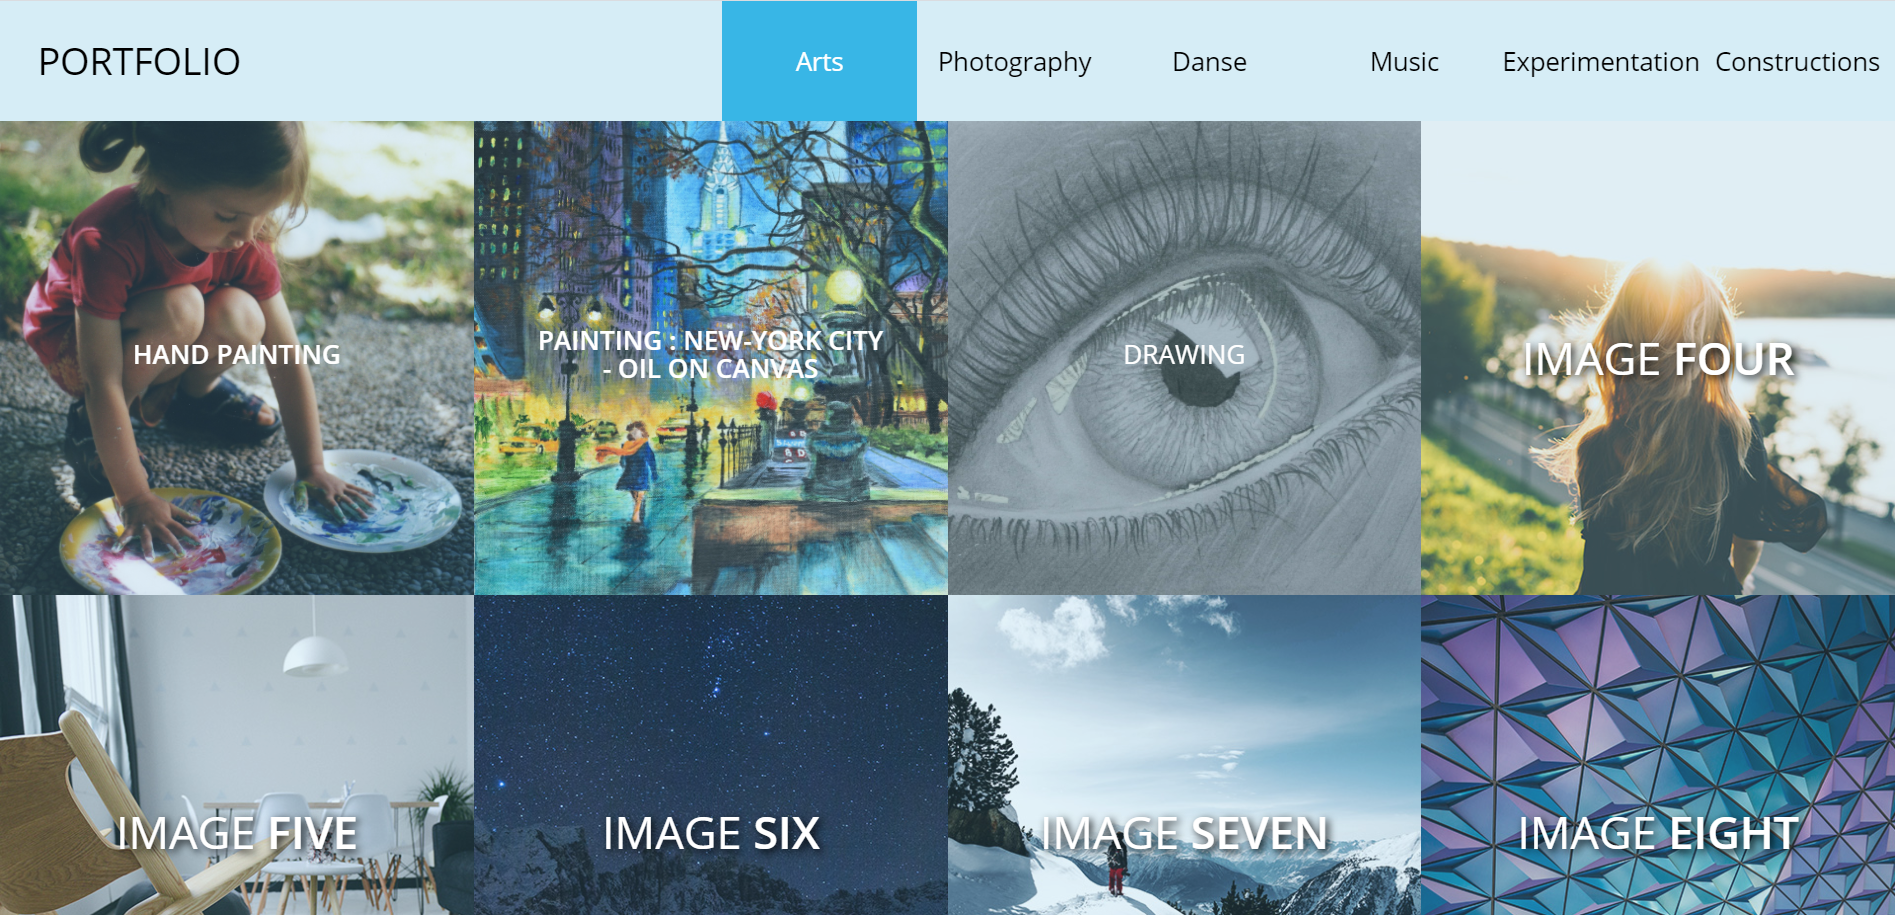
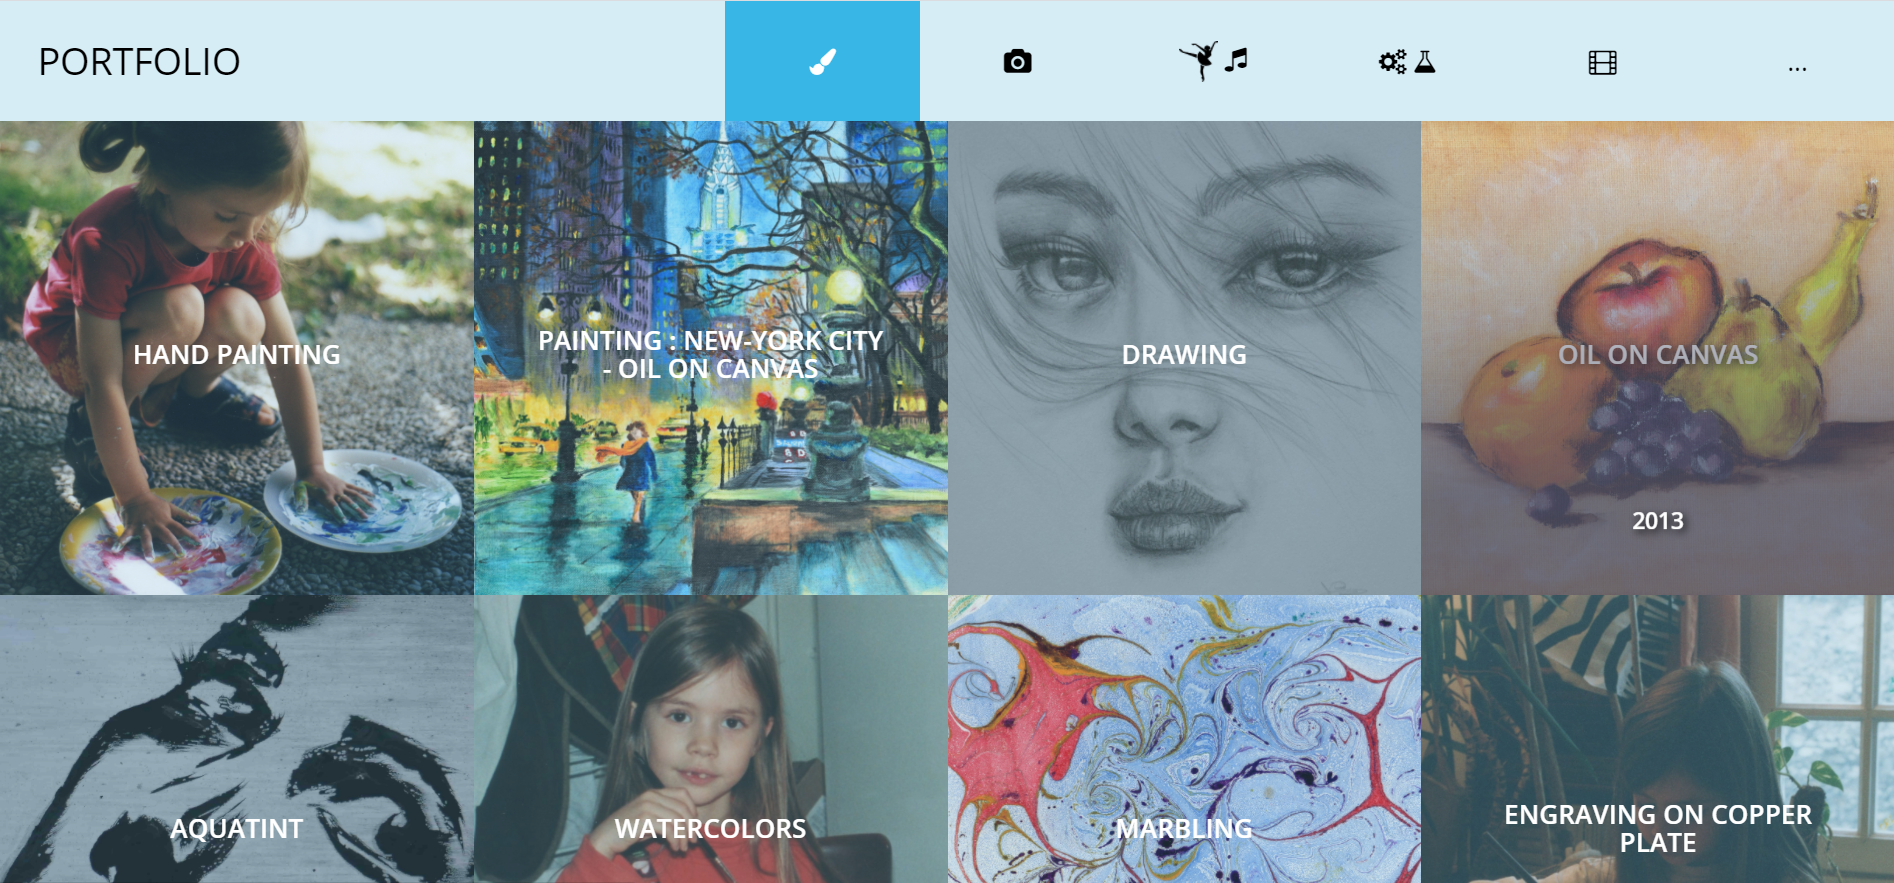
202012021433

diff --git a/portfolio.html b/portfolio.html
@@ -143,7 +143,7 @@ http://www.templatemo.com/tm-500-fluid-gallery
                                         <figure class="effect-sadie">
                                             <img src="img/art2020a-1.jpg" alt="Image" class="img-fluid tm-img">
                                             <figcaption>
-                                                 <h3 class="tm-figure-title"><span><strong>Drawing</strong></span></h3>
+                                                 <h3 class="tm-figure-title"><span><strong>Aquatint</strong></span></h3>
                                                 <p class="tm-figure-description">2020</p>
                                                 <a href="img/art20203a-1.jpg">View more</a>
                                             </figcaption>           
@@ -163,7 +163,7 @@ http://www.templatemo.com/tm-500-fluid-gallery
                                         <figure class="effect-sadie">
                                             <img src="img/art20031-1.jpg" alt="Image" class="img-fluid tm-img">
                                             <figcaption>
-                                                <h3 class="tm-figure-title"><span><strong>Aquatint</strong></span></h3>
+                                                <h3 class="tm-figure-title"><span><strong>Marbling</strong></span></h3>
                                                 <p class="tm-figure-description">2019</p>
                                                 <a href="img/art20031.jpg">View more</a>
                                             </figcaption>           
@@ -193,7 +193,7 @@ http://www.templatemo.com/tm-500-fluid-gallery
                                         <figure class="effect-sadie">
                                             <img src="img/art20132-1.jpg" alt="Image" class="img-fluid tm-img">
                                             <figcaption>
-                                                <h2 class="tm-figure-title">Image <span><strong>Thirteen</strong></span></h2>
+                                                <h2 class="tm-figure-title"><span>Enraving on copper plate</span></h2>
                                                 <p class="tm-figure-description">Lorem ipsum dolor sit amet, consectetur adipiscing elit.</p>
                                                 <a href="img/tm-img-13.jpg">View more</a>
                                             </figcaption>           

diff --git a/index.html b/index.html
@@ -124,7 +124,7 @@ for (var i = 0; i < btns.length; i++) {
 <section id="header">
 <div class="container text-center">
 <div class="user-box">
-<img src="img/mebis.jpg">
+<img src="img/me1-5-1.jpg">
 <h1>Camille CUNIN</h1>
 <p>Graduate Student in General Engineering</p>
     <div class="legendebg">
